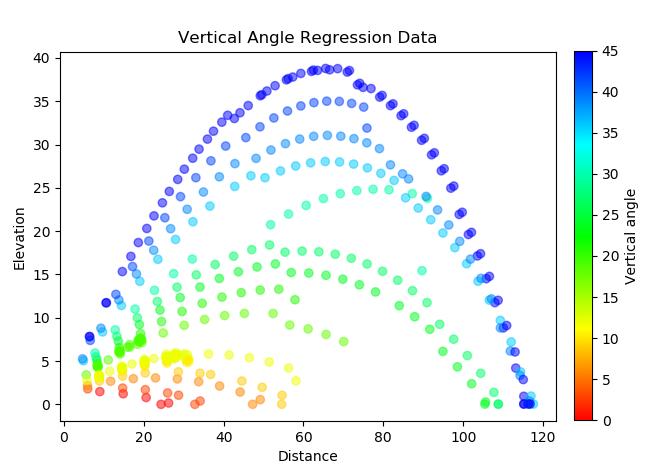
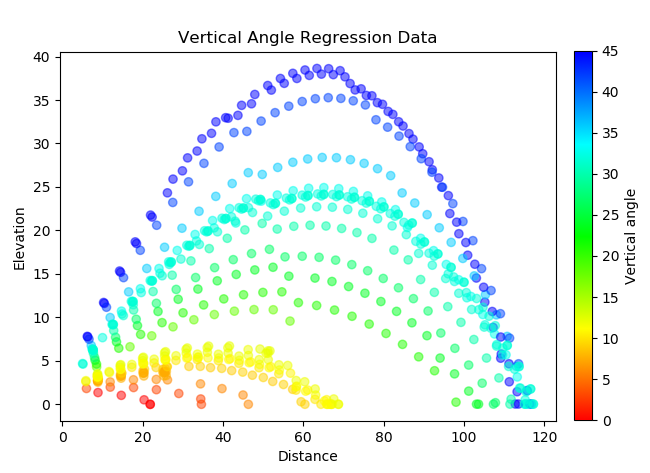
Remaining figures and extra graphing for code

diff --git a/code/tylertest.py b/code/tylertest.py
@@ -312,7 +312,7 @@ def record_data():
         if arrow:
             data.append(np.asarray([arrow["x"], arrow["y"], arrow["z"]]))
 
-    vert_error = 10
+    vert_error = 0
     hori_error = 0
     if len(data) > 0:
         target_loc = find_mob_by_name(last_obs["Mobs"], "Mover")
@@ -330,14 +330,16 @@ def record_data():
                      get_hori_angle(player_loc["x"], player_loc["z"], target_loc[0], target_loc[2])
         hori_error = ((hori_error + 180) % 360) - 180
 
-        print("Vert Error:", vert_error)
-        print("Hori Error:", hori_error)
+        vert_errors.append(vert_error)
+        hori_errors.append(hori_error)
         commands.append((shoot_agent, "chat /kill @e[type=!player]", total_time + 0))
 
     return -((vert_error**2 + hori_error**2)**0.5)
 
 vert_shots = [[], []]
 hori_shots = [[], []]
+vert_errors = []
+hori_errors = []
 vert_angle_step = -3
 
 # Launch the clients
@@ -363,7 +365,7 @@ if move_agent.receivedArgument("help"):
 
 iterations = 5
 for i in range(iterations):
-    params = (random.randint(10, 30)*random.randrange(-1, 2, 2), random.randint(10, 20), random.randint(10, 30)*random.randrange(-1, 2, 2))
+    params = (random.randint(10, 50)*random.randrange(-1, 2, 2), random.randint(10, 30), random.randint(10, 50)*random.randrange(-1, 2, 2))
     my_mission = MalmoPython.MissionSpec(GetMissionXML(), True)
     my_mission_record = MalmoPython.MissionRecordSpec()
     my_mission.setViewpoint(0)
@@ -453,6 +455,7 @@ for i in range(iterations):
     print("Mission ended")
     # Mission has ended.
 
+# Data Graphing
 array = np.asarray(vert_shots[0] + vert_shots[1])
 colors = [(min(max(0, 2 - 4*s/45), 1), \
            min(max(0, 2 - abs((4*s-90)/45)), 1), \
@@ -463,6 +466,7 @@ plt.xlabel("Distance")
 plt.ylabel("Elevation")
 plt.show()
 
+# Prediction Graphing
 poly = PolynomialFeatures(2, include_bias=False).fit(array[:,:-1])
 predictor = LinearRegression().fit(poly.transform(array[:,:-1]), array[:,-1])
 xSpace = np.linspace(0, array[:,0].max(), 100)
@@ -479,4 +483,23 @@ cbar.ax.set_ylabel("Vertical angle")
 plt.title("Vertical Angle Regression Predictions")
 plt.xlabel("Distance")
 plt.ylabel("Elevation")
+plt.show()
+
+# Error Graphing
+total_errors = (np.asarray(vert_errors)**2 + np.asarray(hori_errors)**2)**0.5
+plt.scatter(range(total_errors.shape[0]), total_errors)
+plt.title("Errors for each shot")
+plt.xlabel("Arrow shot")
+plt.ylabel("Error")
+plt.show()
+
+# Accuracy Graphing
+accuracies = []
+for i in range(5, len(total_errors)):
+    shots = total_errors[i-5:i]
+    hit_shots = shots[shots<2]
+    accuracies.append(len(hit_shots) / len(shots))
+plt.plot(np.arange(5, len(total_errors)), accuracies)
+plt.title("Accuracy over last 5 shots")
+plt.xlabel("Last shot")
 plt.show()
